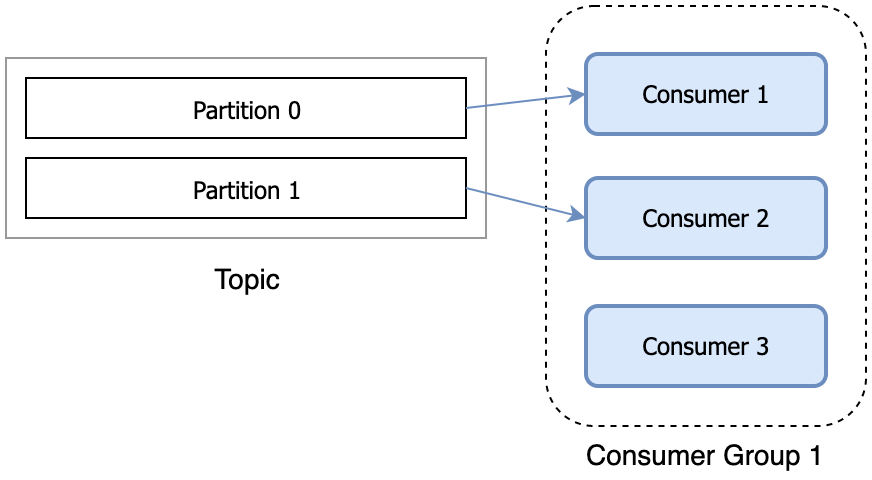
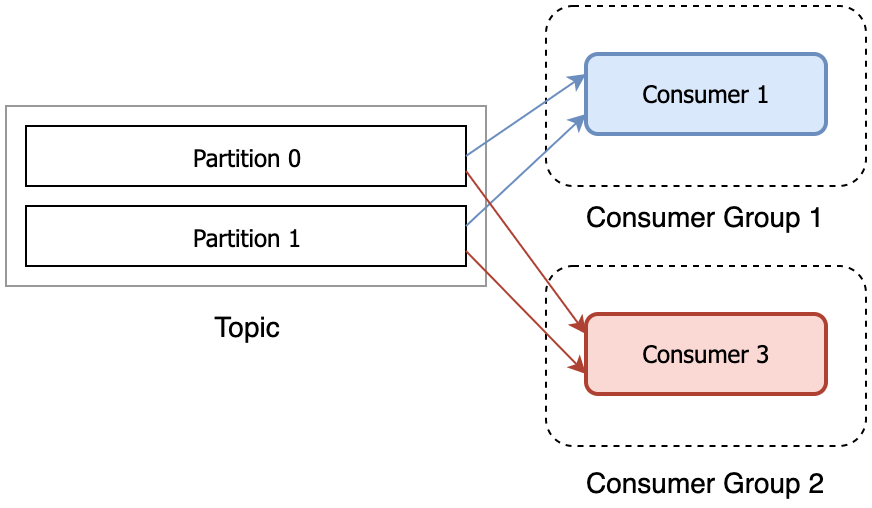
Message Queue System

diff --git a/message-queue.md b/message-queue.md
@@ -1688,8 +1688,190 @@ Consumer 5 → partitions []     // IDLE - no available partitions!
 
 #### **Scenario 4: Multiple Groups Reading Same Topic**
 ![Multiple_consumers_reading_the_same_records_from_the_topic.png](assets/message_queue/Multiple_consumers_reading_the_same_records_from_the_topic.png)
-
 *Different consumer groups can read the same messages from a topic independently. Each group maintains its own offset tracking, allowing different applications to process the same data stream for different purposes (e.g., one group for analytics, another for notifications).*
+
+### **Consumer Groups in Distributed Systems**
+
+Consumer Groups are fundamental to building **scalable, fault-tolerant distributed systems** with Kafka. They enable two critical messaging patterns:
+
+#### **1. Competing Consumers Pattern (Load Balancing)**
+When you want to **distribute workload** across multiple consumer instances:
+
+```go
+// Example: Order Processing Service
+// Multiple instances process orders in parallel
+func main() {
+    consumer := kafka.NewConsumer(kafka.ConfigMap{
+        "bootstrap.servers": "localhost:9092",
+        "group.id":          "order-processing-service", // Same group ID
+        "auto.offset.reset": "earliest",
+    })
+    
+    consumer.Subscribe([]string{"orders"}, nil)
+    
+    for {
+        msg, err := consumer.ReadMessage(-1)
+        if err == nil {
+            processOrder(msg.Value) // Each message processed by only ONE instance
+            consumer.CommitMessage(msg)
+        }
+    }
+}
+```
+
+**Result**: Each order is processed by **exactly one** instance, enabling horizontal scaling.
+
+#### **2. Publish-Subscribe Pattern (Broadcasting)**
+When you want **multiple applications** to process the same data:
+
+```go
+// Analytics Service - Group 1
+consumer1 := kafka.NewConsumer(kafka.ConfigMap{
+    "group.id": "analytics-service", // Different group ID
+})
+
+// Notification Service - Group 2
+consumer2 := kafka.NewConsumer(kafka.ConfigMap{
+    "group.id": "notification-service", // Different group ID
+})
+
+// Audit Service - Group 3
+consumer3 := kafka.NewConsumer(kafka.ConfigMap{
+    "group.id": "audit-service", // Different group ID
+})
+
+// All three services receive ALL messages from the same topic
+```
+
+**Result**: Each service receives **every message**, enabling multiple data processing pipelines.
+
+### **Real-World Example: E-commerce Platform**
+
+```go
+// Topic: "user-events" 
+// Contains: user registrations, logins, purchases, etc.
+
+// Group 1: Real-time Notifications
+type NotificationService struct {
+    groupID = "notification-service"
+    topics  = ["user-events"]
+}
+
+func (ns *NotificationService) processMessage(event UserEvent) {
+    switch event.Type {
+    case "purchase":
+        sendPurchaseConfirmationEmail(event.UserID, event.Data)
+    case "registration":
+        sendWelcomeEmail(event.UserID)
+    }
+}
+
+// Group 2: Analytics Pipeline
+type AnalyticsService struct {
+    groupID = "analytics-service" 
+    topics  = ["user-events"]
+}
+
+func (as *AnalyticsService) processMessage(event UserEvent) {
+    // Send to data warehouse for reporting
+    dataWarehouse.Store(event)
+    
+    // Update real-time metrics
+    metrics.UpdateUserActivity(event.UserID, event.Type)
+}
+
+// Group 3: Fraud Detection
+type FraudDetectionService struct {
+    groupID = "fraud-detection-service"
+    topics  = ["user-events"]
+}
+
+func (fds *FraudDetectionService) processMessage(event UserEvent) {
+    if event.Type == "purchase" {
+        riskScore := calculateRiskScore(event)
+        if riskScore > THRESHOLD {
+            flagSuspiciousActivity(event)
+        }
+    }
+}
+```
+
+### **Consumer Group Coordinator and Partition Assignment**
+
+The **Group Coordinator** (a designated broker) manages consumer group membership and partition assignments:
+
+```go
+type GroupCoordinatorManager struct {
+    // Coordinator election: hash(group_id) % num_brokers
+    coordinators map[string]*BrokerInfo // group_id -> coordinator broker
+    
+    // Rebalance triggers
+    rebalanceReasons []RebalanceReason
+}
+
+// Partition assignment strategies available:
+const (
+    RangeAssignor     = "range"      // Assign consecutive partitions
+    RoundRobinAssignor = "roundrobin" // Distribute partitions evenly  
+    StickyAssignor    = "sticky"     // Minimize partition movement
+    CooperativeSticky = "cooperative-sticky" // Incremental rebalancing
+)
+```
+
+### **Group States and Lifecycle**
+
+```go
+type GroupState string
+
+const (
+    GroupStateEmpty       GroupState = "Empty"       // No members
+    GroupStatePreparingRebalance   = "PreparingRebalance" // Rebalance initiated
+    GroupStateCompletingRebalance  = "CompletingRebalance" // Assignment in progress
+    GroupStateStable      GroupState = "Stable"      // Normal operation
+    GroupStateDead        GroupState = "Dead"        // Group deleted
+)
+
+// Group lifecycle transitions:
+// Empty -> PreparingRebalance -> CompletingRebalance -> Stable
+//   ^                                                     |
+//   +-----------------------------------------------------+
+//                    (member leaves/joins)
+```
+
+### **Key Benefits of Consumer Groups**
+
+1. **Horizontal Scalability**: Add more consumers to increase processing capacity
+2. **Fault Tolerance**: If one consumer fails, others continue processing
+3. **Load Distribution**: Workload automatically distributed across available consumers
+4. **Flexible Processing**: Multiple applications can process the same data independently
+5. **Automatic Recovery**: Failed consumers automatically rejoin and resume processing
+
+### **Best Practices for Consumer Groups**
+
+```go
+type ConsumerGroupConfig struct {
+    // Naming convention: service-name-environment
+    GroupID string `yaml:"group_id"` // e.g., "order-service-prod"
+    
+    // Session management
+    SessionTimeoutMs  int `yaml:"session_timeout_ms"`  // 45000 (45s)
+    HeartbeatIntervalMs int `yaml:"heartbeat_interval_ms"` // 15000 (15s)
+    
+    // Processing configuration  
+    MaxPollRecords     int `yaml:"max_poll_records"`      // 100-500
+    MaxPollIntervalMs  int `yaml:"max_poll_interval_ms"`  // 300000 (5min)
+    
+    // Offset management
+    EnableAutoCommit   bool `yaml:"enable_auto_commit"`    // false (manual commit)
+    AutoCommitIntervalMs int `yaml:"auto_commit_interval_ms"` // 5000 (5s)
+}
+```
+
+**Guidelines:**
+- **One group per service/application** to avoid interference
+- **Partition count ≥ max expected consumers** for optimal scaling
+- **Monitor consumer lag** to detect processing bottlenecks
+- **Use manual offset commits** for exactly-once processing guarantees
 
 ## Communication Protocols and Consumer API
 
